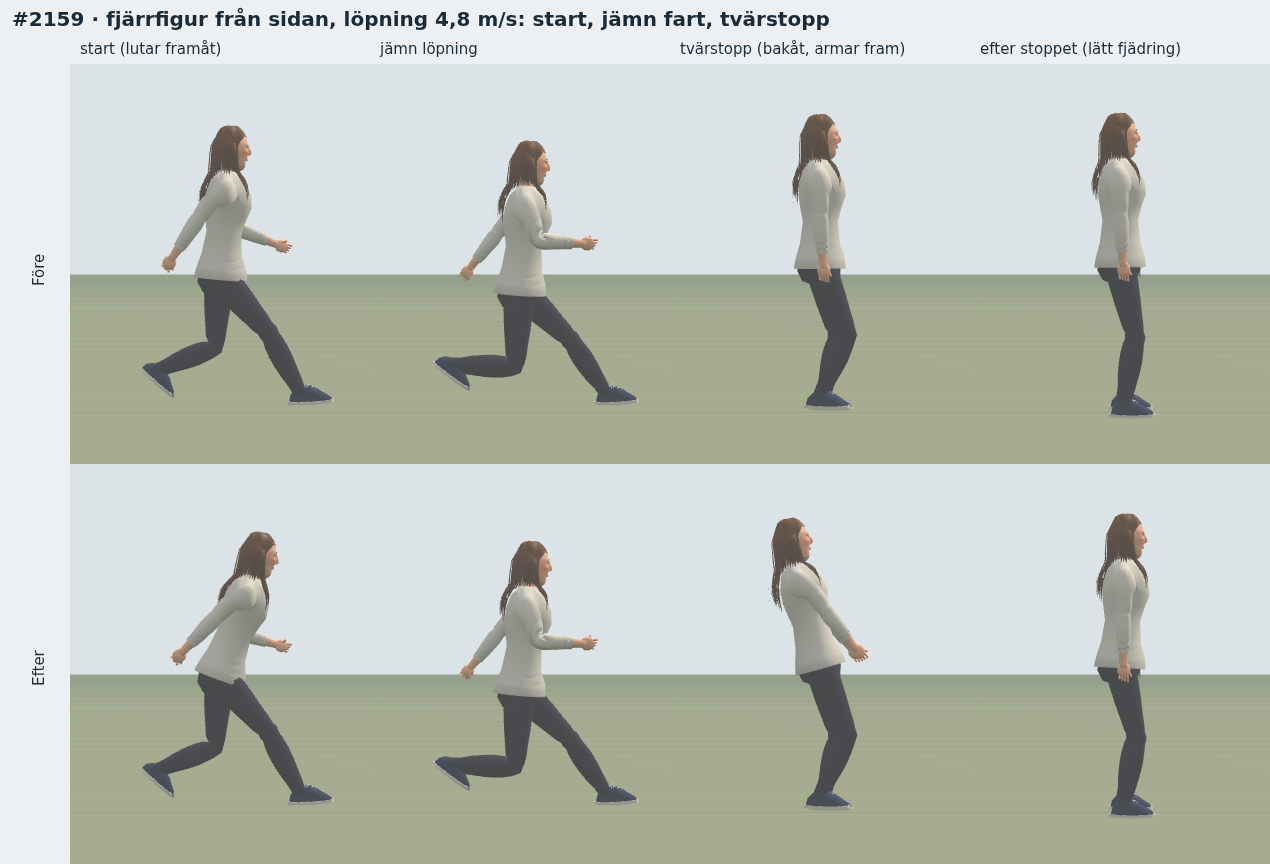
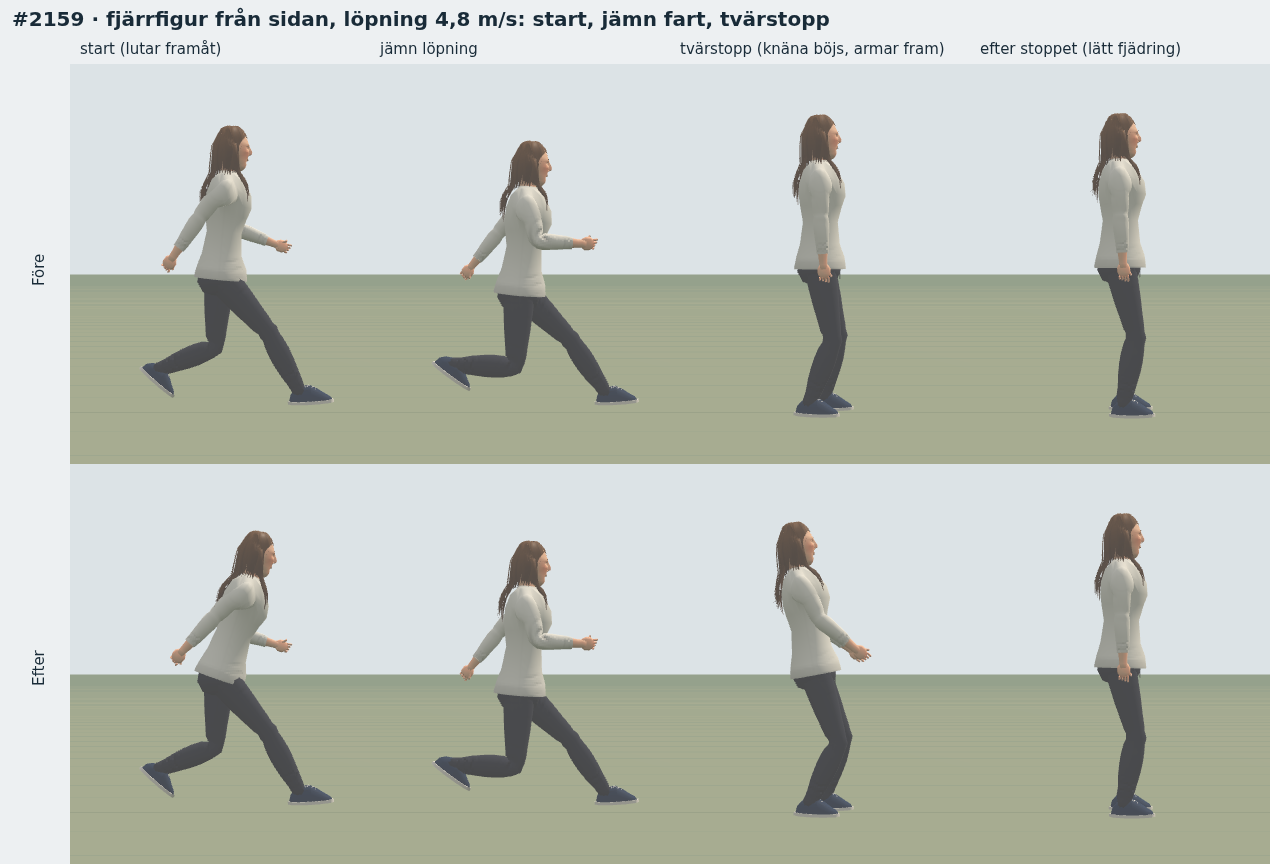
Refresh #2159 result images and numbers for the tuned lean (knees bend at the stop); doc covers hips/knees. Refs #2159

diff --git a/docs/development/animals-audio.md b/docs/development/animals-audio.md
@@ -627,7 +627,7 @@ Walking and running avatars no longer turn as one rigid block. `src/avatarlean.j
 
 ## Leaning into a start and against a stop (#2159)
 
-The third term of `stepLean` (`stepAccel` in `src/avatarlean.js`, tunables `AVATAR_ACCEL_LEAN`, *guesses* by eye) gives the body weight when the speed changes. It differentiates the figure's **forward** speed. A remote Ghost passes the #2139 playback curve's velocity along the body's heading as `Avatar.update`'s `fwd`; without it, `update` uses the ground speed along `gaitDir`. There is no network field. Before differentiating, the input is slew-limited to `slew` m/s² per second, which cuts a one-frame glitch or a teleport frame down to almost nothing. It is low-passed before and after the derivative, and a dead band removes the playback's ripple. The target torso pitch is `share` × atan(a/g), within `forward` / `back` rad, so a sprint start leans far more than setting off at a walk. The upper body follows the target as an under-damped spring (`omega`, `zeta`), so after a sudden stop it swings lightly past upright and settles. `poseOlof`'s lean gets −`accel` (+ forward), and the head takes back `head` of it so the gaze stays level. While braking, `brace` (0 … 1) moves the free swinging hands forward / up by `arm` m as a counterweight. Held hands (#2144 carry, #2149 aim, a wave) keep their targets. The term adds to #2109's turn terms, the run lean, breathing, #2140's jump and #2144's carry lean. It springs back to zero, with the speed only tracked, whenever stepLean is off: in the air, swimming, dancing, kissing or reacting. Seated, gym, bike (#2148) and hug figures pass `groundEnabled` false, which also turns it off, so it never fires on the return. A frame gap longer than `resetTime` restarts the tracking. `avatar.noLean` turns it off together with #2109. The cost is a few dozen flops per avatar and frame: `Ghost.animate` while running stayed within the measurement noise (22.4 → 22.4, 42.6 → 35.2 and, walking, 19.4 → 20.4 µs before → after in three runs). There is no mesh, texture, draw-call, uniform or wire change, and the head boxes follow the pose as before. The braking step itself (a foot planted ahead) is not modelled; the feet keep #2003's gait. Checks: `node --test tools/avataraccelleantest.mjs` and `tools/avataraccel2159browser.cjs` on `tools/avataraccel2159.html` ([result](../verification/2159/README.md)).
+The third term of `stepLean` (`stepAccel` in `src/avatarlean.js`, tunables `AVATAR_ACCEL_LEAN`, *guesses* by eye) gives the body weight when the speed changes. It differentiates the figure's **forward** speed. A remote Ghost passes the #2139 playback curve's velocity along the body's heading as `Avatar.update`'s `fwd`; without it, `update` uses the ground speed along `gaitDir`. There is no network field. Before differentiating, the input is slew-limited to `slew` m/s² per second, which cuts a one-frame glitch or a teleport frame down to almost nothing. It is low-passed before and after the derivative, and a dead band removes the playback's ripple. The target torso pitch is `share` × atan(a/g), within `forward` / `back` rad (`back` is small, 0.14: braking sinks the body rather than leaning it far), so a sprint start leans far more than setting off at a walk. The upper body follows the target as an under-damped spring (`omega`, `zeta`; its swing is capped at `overshoot` × the bounds), so after a sudden stop it swings lightly past upright and settles. `poseOlof`'s lean gets −`accel` (+ forward), and the head takes back `head` of it so the gaze stays level. While braking, `brace` (0 … 1) moves the free swinging hands forward / up by `arm` m as a counterweight and sinks the hips by `knee.drop` m (and `knee.back` m back) so the leg IK bends both knees about 0.25 rad while the feet keep their gait height. Held hands (#2144 carry, #2149 aim, a wave) keep their targets. The term adds to #2109's turn terms, the run lean, breathing, #2140's jump and #2144's carry lean. It springs back to zero, with the speed only tracked, whenever stepLean is off: in the air, swimming, dancing, kissing or reacting. Seated, gym, bike (#2148) and hug figures pass `groundEnabled` false, which also turns it off, so it never fires on the return. A frame gap longer than `resetTime` restarts the tracking. `avatar.noLean` turns it off together with #2109. The cost is a few dozen flops per avatar and frame: `Ghost.animate` while running stayed within the measurement noise (22.4 → 22.4, 42.6 → 35.2 and, walking, 19.4 → 20.4 µs before → after in three runs). There is no mesh, texture, draw-call, uniform or wire change, and the head boxes follow the pose as before. The braking step itself (a foot planted ahead) is not modelled; the feet keep #2003's gait (the test checks their height is unchanged through the stop). Checks: `node --test tools/avataraccelleantest.mjs` and `tools/avataraccel2159browser.cjs` on `tools/avataraccel2159.html` ([result](../verification/2159/README.md)).
 
 ## Relaxed hands and talking gestures (#2038)
 

diff --git a/docs/verification/2159/README.md b/docs/verification/2159/README.md
@@ -12,13 +12,16 @@ largest forward lean at the start, a steady stretch, the largest back lean at th
 
 | sprint 4.8 m/s (trunk pitch hips → neck, rad, + forward) | before | after |
 |---|---|---|
-| start (peak) | 0.085 | 0.302 |
+| start (peak) | 0.085 | 0.309 |
 | steady run (mean) | 0.079 | 0.078 |
-| sudden stop (peak back) | −0.001 | −0.261 |
-| left hand ahead of the hips at the stop (m) | 0.019 | 0.208 |
-| over-swing after the stop | −0.010 | 0.049 |
+| sudden stop (peak back) | −0.004 | −0.168 |
+| left hand ahead of the hips at the stop (m) | 0.015 | 0.246 |
+| mean knee flexion at the stop (rad) | 0.505 | 0.738 |
+| hip height at the stop (m) | 0.916 | 0.882 |
+| feet height difference after − before from the stop on (m) | | 0 |
+| over-swing after the stop | −0.007 | 0.025 |
 
-At a walk (1.4 m/s) the effect is deliberately much smaller: the start goes from −0.032 to 0.049 and the stop from −0.002 to −0.079.
+At a walk (1.4 m/s) the effect is deliberately much smaller: the start goes from −0.032 to 0.052 and the stop from −0.002 to −0.082.
 At constant speed the term stays below 0.02 rad (sprint) and 0.013 rad (walk) on the jittery playback, and it is back under 0.01 rad
 1.5 s after the stop. The page and console logged no errors. `Ghost.animate` cost stayed within the noise. Full numbers:
 [browser.json](browser.json).
